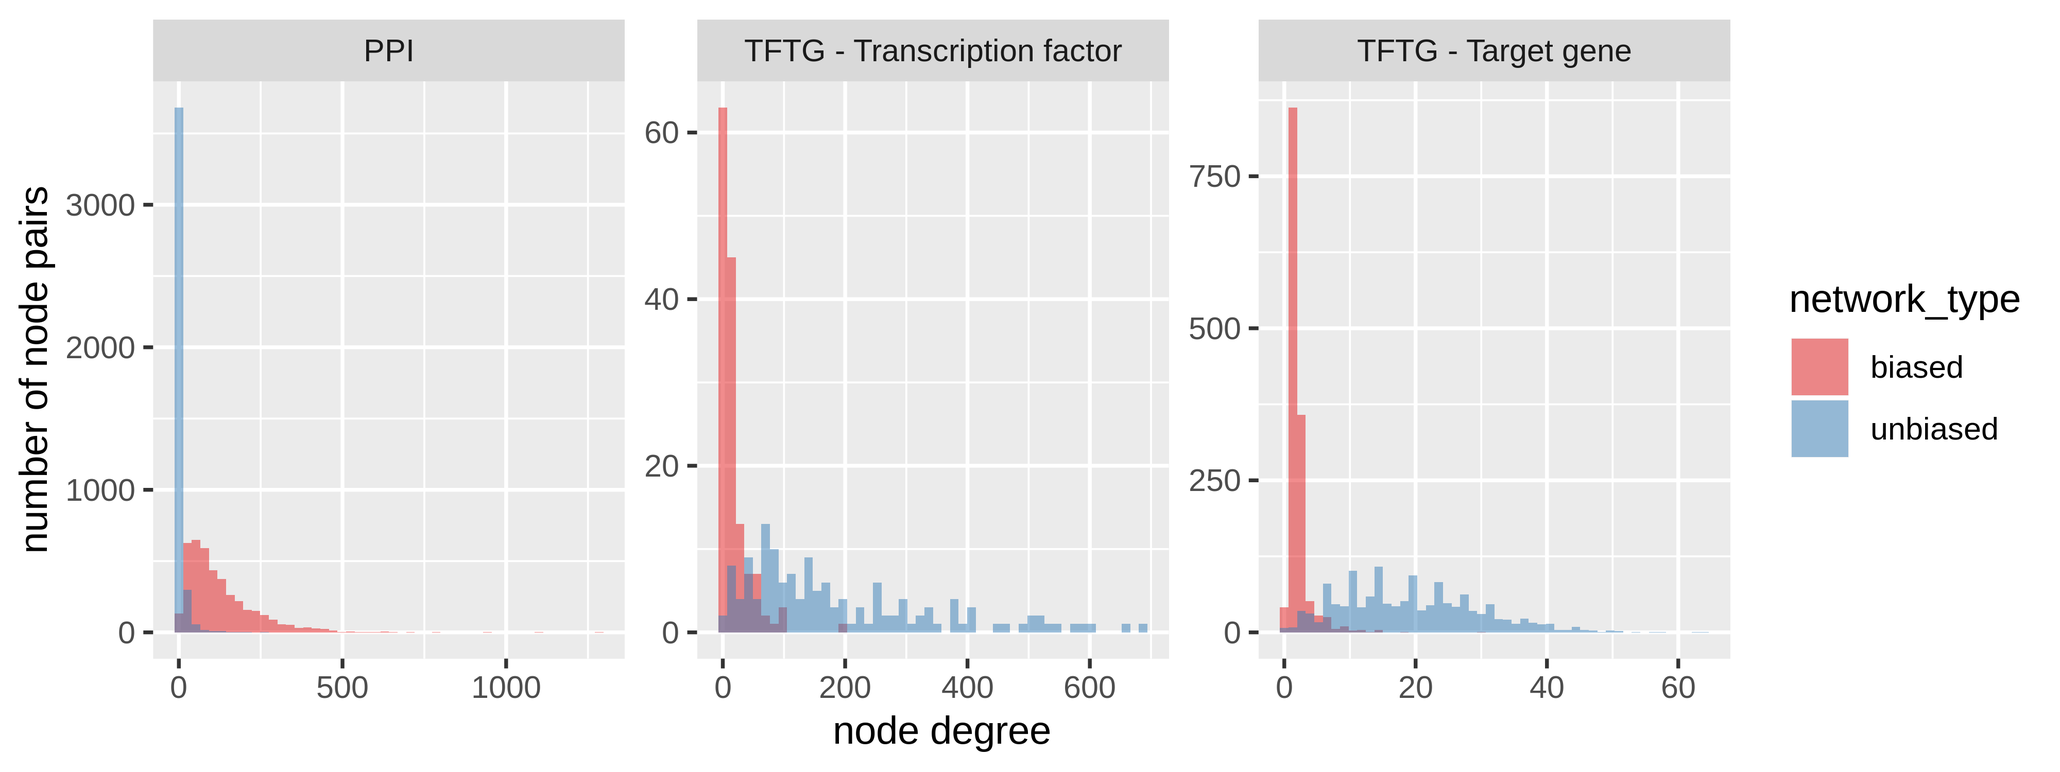
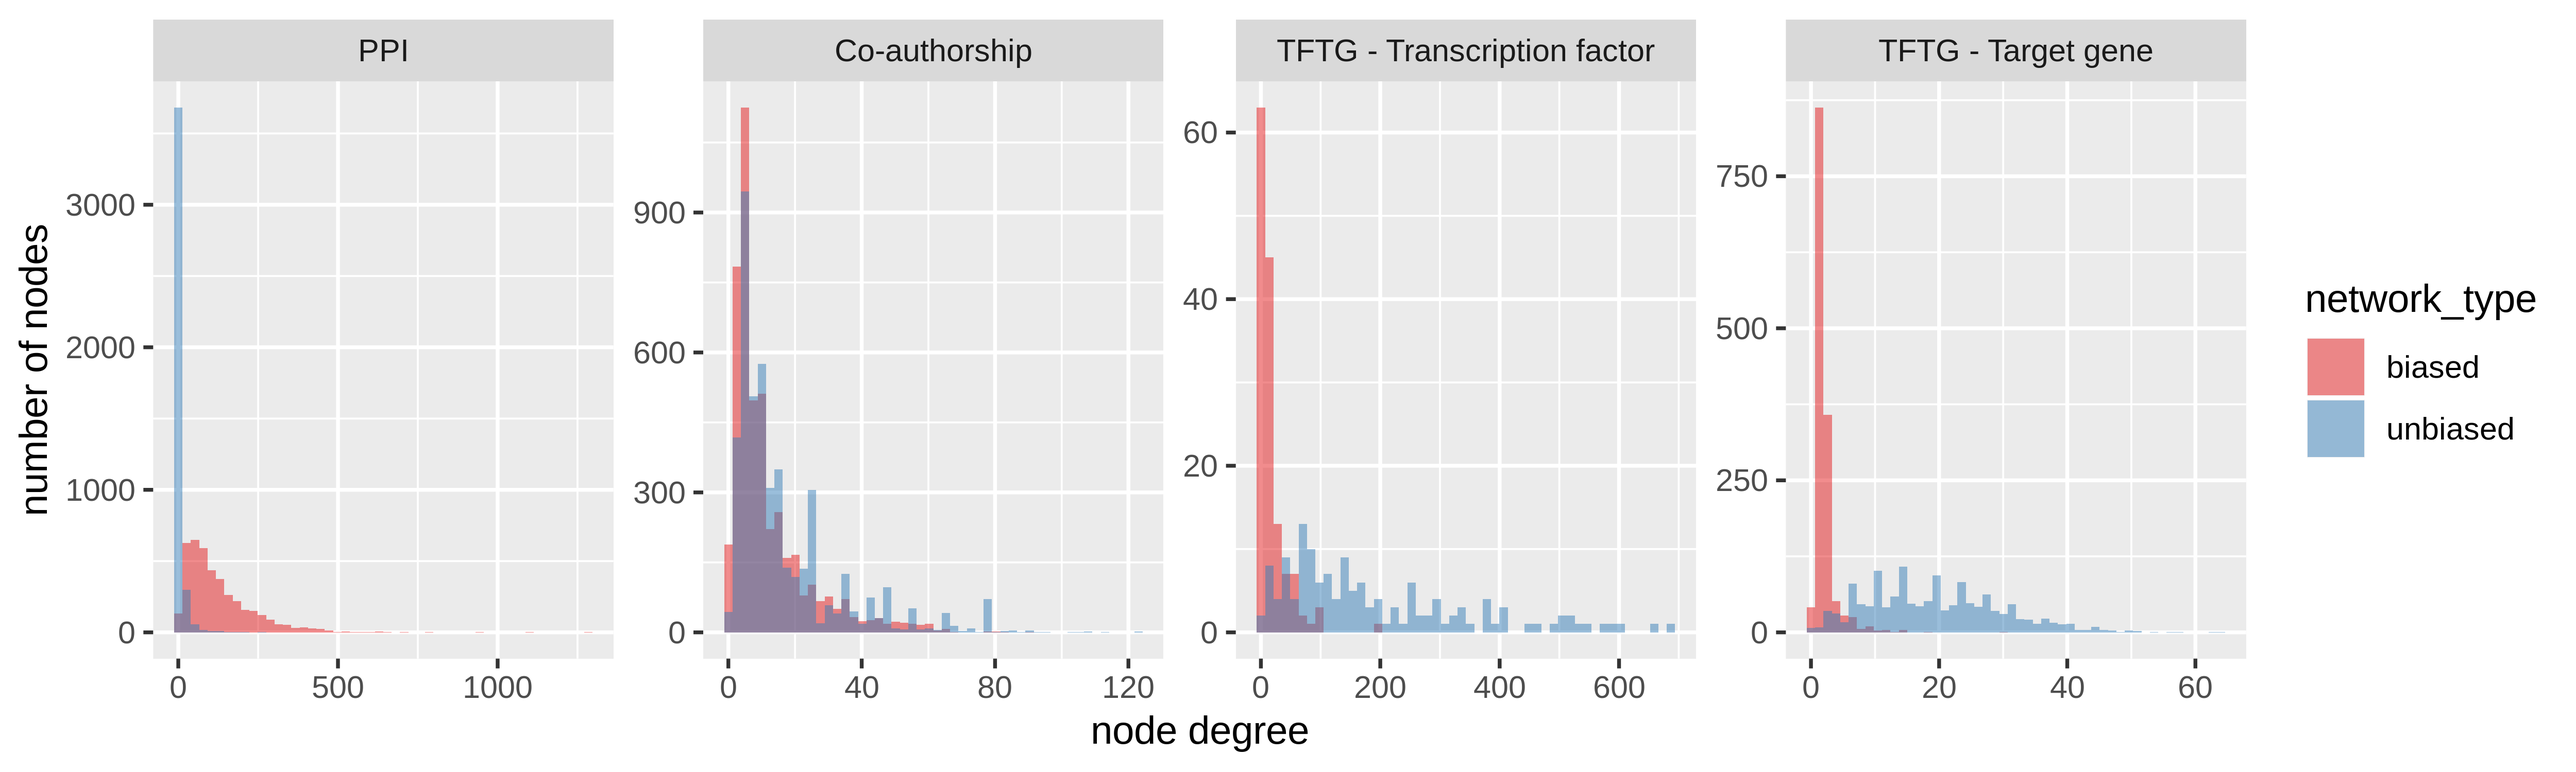
Update body

diff --git a/content/02.body.md b/content/02.body.md
@@ -184,10 +184,13 @@ The code for our method of degree-preserving network permutation has been made f
 ### Comparison between networks
 
 We computed link-prediction features for all node pairs in three types of biomedical networks--PPI, TFTG, and bioinformatics preprint co-authorship.
-For each type of network there were three networks on which features were computed, a degree-biased network, a sampled version of the degree-biased network, in which a fraction of edges were dropped, and a systematic network, in which no degree bias is expected.
+For each of the PPI and TFTG network types there were three networks on which features were computed, a degree-biased network, a sampled version of the degree-biased network, in which a fraction of edges were dropped, and a systematic network, in which no degree bias is expected.
+The co-authorship network was split between relationships that existed as of before 2018, those that exist as of present, and a sampled version of the relationships that existed as of before 2018.
+Unlike the two experimental networks, the three co-authorship networks all have a similar degree distribution `Supplemental figure`.
+We include the comparison to illustrate a plausible situation in which the target network for link prediction has a similar degree distribution to the network available for computing features.
 
 We computed RWR and the Jaccard coefficient on the PPI and co-authorship networks and an inference score developed for link prediction in directed graphs [@raw:inference] on the TFTG network.
-We used our network permutation algorithm to generate 1000 degree-preserving permutations of each of these networks, and we computed the same set of features on each permutation of each of the nine individual networks.
+We used our network permutation algorithm to generate 1000 degree-preserving permutations of each of these networks, and we computed the same set of features on each permutation of each of the nine individual networks (three for each of PPI, TFTG, co-authorship).
 By comparing features computed on the actual networks to the features computed on degree-preserving permutations of the networks, we were able to compute "corrected" features, which adjust the original features relative to the distribution of each node pair feature if only the network's degree sequence is retained.
 Specifically, we defined the permutation-corrected node pair features as the fraction of permuted networks in which the node pair's feature value is greater than or equal to its value in the true network.
 
@@ -210,9 +213,6 @@ Additionally, for each node pair we computed the mean feature values across perm
 This feature represents the expected feature value for a node pair in random networks with the given degree sequence.
 
 
-### Subsection
-
-
 ![Comparison of degree-feature relationship between raw link prediction features and features corrected for degree using counterfactual distributions computed on permuted networks](images/feature_vs_corrected.png){#fig:feature-vs-corrected width="75%"}
 
 ```
@@ -222,6 +222,8 @@ Above figure but histograms of degrees for top, say, 1% of the values (ie top fe
 ### Performance of the algorithm
 
 ![Percent of edges swapped vs number of attempts at edge swaps. "Density" means the number of edges by the number of node pairs.](images/percent_swapped_continuous.png){#fig:swap-percent width="100%"}
+
+`Make above plot but with asymptotic value relative to degree. Could be part B to above part A.`
 
 <!-- Performance of XSwap itself -->
 <!-- x: Number of attempts, y: Number of successful swaps -->
@@ -268,3 +270,6 @@ What metric could that be? (AUROC - P-AUROC) / (AUROC)? The fraction of AUROC th
 <!-- Other methods to get similar results? Chung-Lu, "configuration model"? etc. -->
 
 ## Discussion
+
+Our discovery that features computed exclusively from permuted networks can, in some cases, show better link-predictive performance than features computed from a network with true relationships illustrates how influential network degree sequence can be in link prediction.
+This fact, in combination with the known fact that biomedical networks have high degree bias, further motivate the need to account for degree in unsupervised network analysis.
